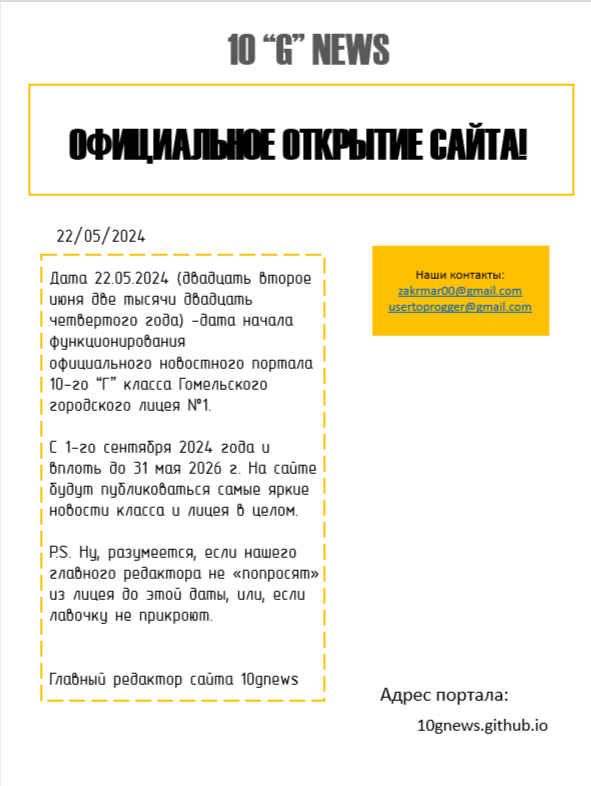
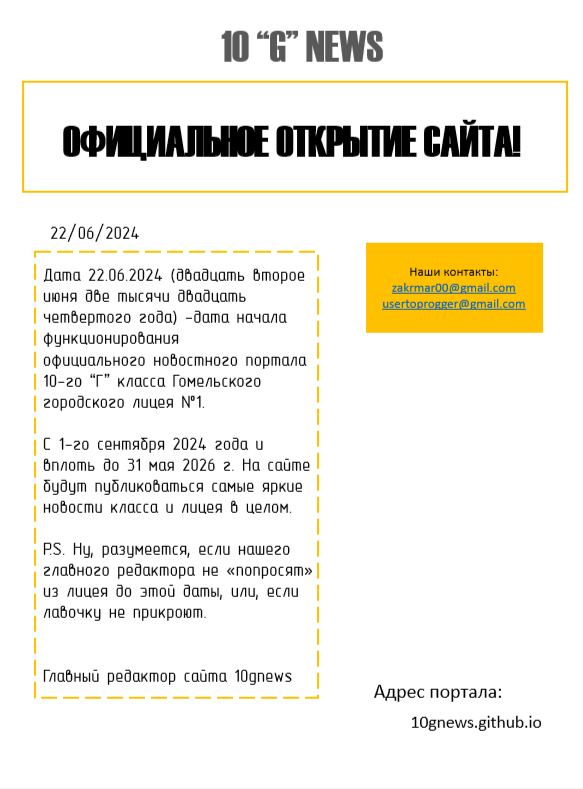
Add files via upload

Changed region(s): [[0.0309, 0.0305, 0.988, 0.916], [0.6175, 0.3053, 0.9571, 0.4275], [0.6484, 0.855, 0.9262, 0.9466]]

diff --git a/index.html b/index.html
@@ -11,13 +11,13 @@
     <script src="counter.js" type='text/javascript'></script>
   </head>
   <body>
-    <div class="header">
+    <div class="header"> <!--верхушка сайта-->
       <p class="block1">10 "G" News</p>
     </div>
-    <div class="img">
+    <div class="img"> <!--начало статьи-->
       <div class="block2">
         <p class="h">Официальное начало работы сайта!</p>
-        <p class="hh">Дата 22.05.2024 (двадцать второе июня две тысячи двадцать четвертого года) -дата начала функционирования официального новостного портала 10-го “Г” класса Гомельского городского лицея №1.
+        <p class="hh">Дата 22.06.2024 (двадцать второе июня две тысячи двадцать четвертого года) -дата начала функционирования официального новостного портала 10-го “Г” класса Гомельского городского лицея №1.
 <br> 
 <p>С 1-го сентября 2024 года и вплоть до 31 мая 2026 г. На сайте будут публиковаться самые яркие новости класса и лицея в целом.<p>
 <br>
@@ -26,14 +26,29 @@
  <a href="./статья1.png" download> Скачать статью: </a>
 </p>
       </div>
-    </div>
+    </div><!--конец статьи-->
+    <div class="img"> <!--начало статьи-->
+      <div class="block2">
+        <p class="h">Вступительные испытания завершены!</p>
+        <p class="hh">27.06.2024 (двадцать седьмого июня две тысячи двадцать четвертого года состоялось последнее из вступительных испытаний (информатика) для абитуриентов лицея.
+<br> 
+<p>В пять десятых классов было зачислено по двадцать четыре человека в следующем составе: 12 человек в класс с усиленным изучением информатики и математики, 60 с изучением физики и математики, 24 английского (среди них 5 французского) и математики и 24 с усиленным изучением химии и биологии.<p>
+<br>
+<p>Среди ста двадцати абитуриентов трое были зачислены в лицей без вступительных испытаний, так как предъявили приемной комиссии дипломы гомельского технопарка.</p>
+<br>
+<p>Списки абитуриентов, участвовавших в том или ином испытании, представлены и доступны для скачивания ниже:</p>
+<br><br>
+ <a href="./статья2.png" download> Скачать статью: </a>
+</p>
+      </div>
+    </div><!--конец статьи-->
     <div class="footer">
       <div class="block3">
-      contact us (Click to send mail):
-      <ul>
-        <li><a href="mailto:zakrmar00@gmail.com">1. Главный редактор</a></li>
-        <li><a href="mailto:usertoprogger@gmail.com">2. Рабочий адрес</a></li>
-      </ul>
+        contact us (Click to send mail):
+        <select name="sel"  onChange="linklist(document.menu.sel)" class="sel">
+            <option value="mailto:zakrmar00@gmail.com" target="new" class="sel">1. Главный редактор</option>
+            <option value="mailto:usertoprogger@gmail.com" target="new" class="sel">2. Рабочий адрес</a></option>
+        </select>
       <p>Количество посещений: <span id="counter">0</span></p>
       </div>
     </div>

diff --git a/counter.js b/counter.js
@@ -5,3 +5,11 @@ document.addEventListener('DOMContentLoaded', function () {
     localStorage.setItem('visitCount', cnt);
     document.getElementById('counter').innerText = cnt;
 });
+function linklist(what){
+var selectedopt=what.options[what.selectedIndex]
+if (document.getElementById && selectedopt.getAttribute("target")=="new")
+window.open(selectedopt.value)
+else
+window.location=selectedopt.value
+}
+-->

diff --git a/style.css b/style.css
@@ -98,3 +98,10 @@ a:active {
   background: #825021;
   color: black;
 }
+.sel {
+  background-color:#b06b2a;
+}
+.sel:hover {
+  border-bottom: 1px solid;
+  background:  #825021;
+}
